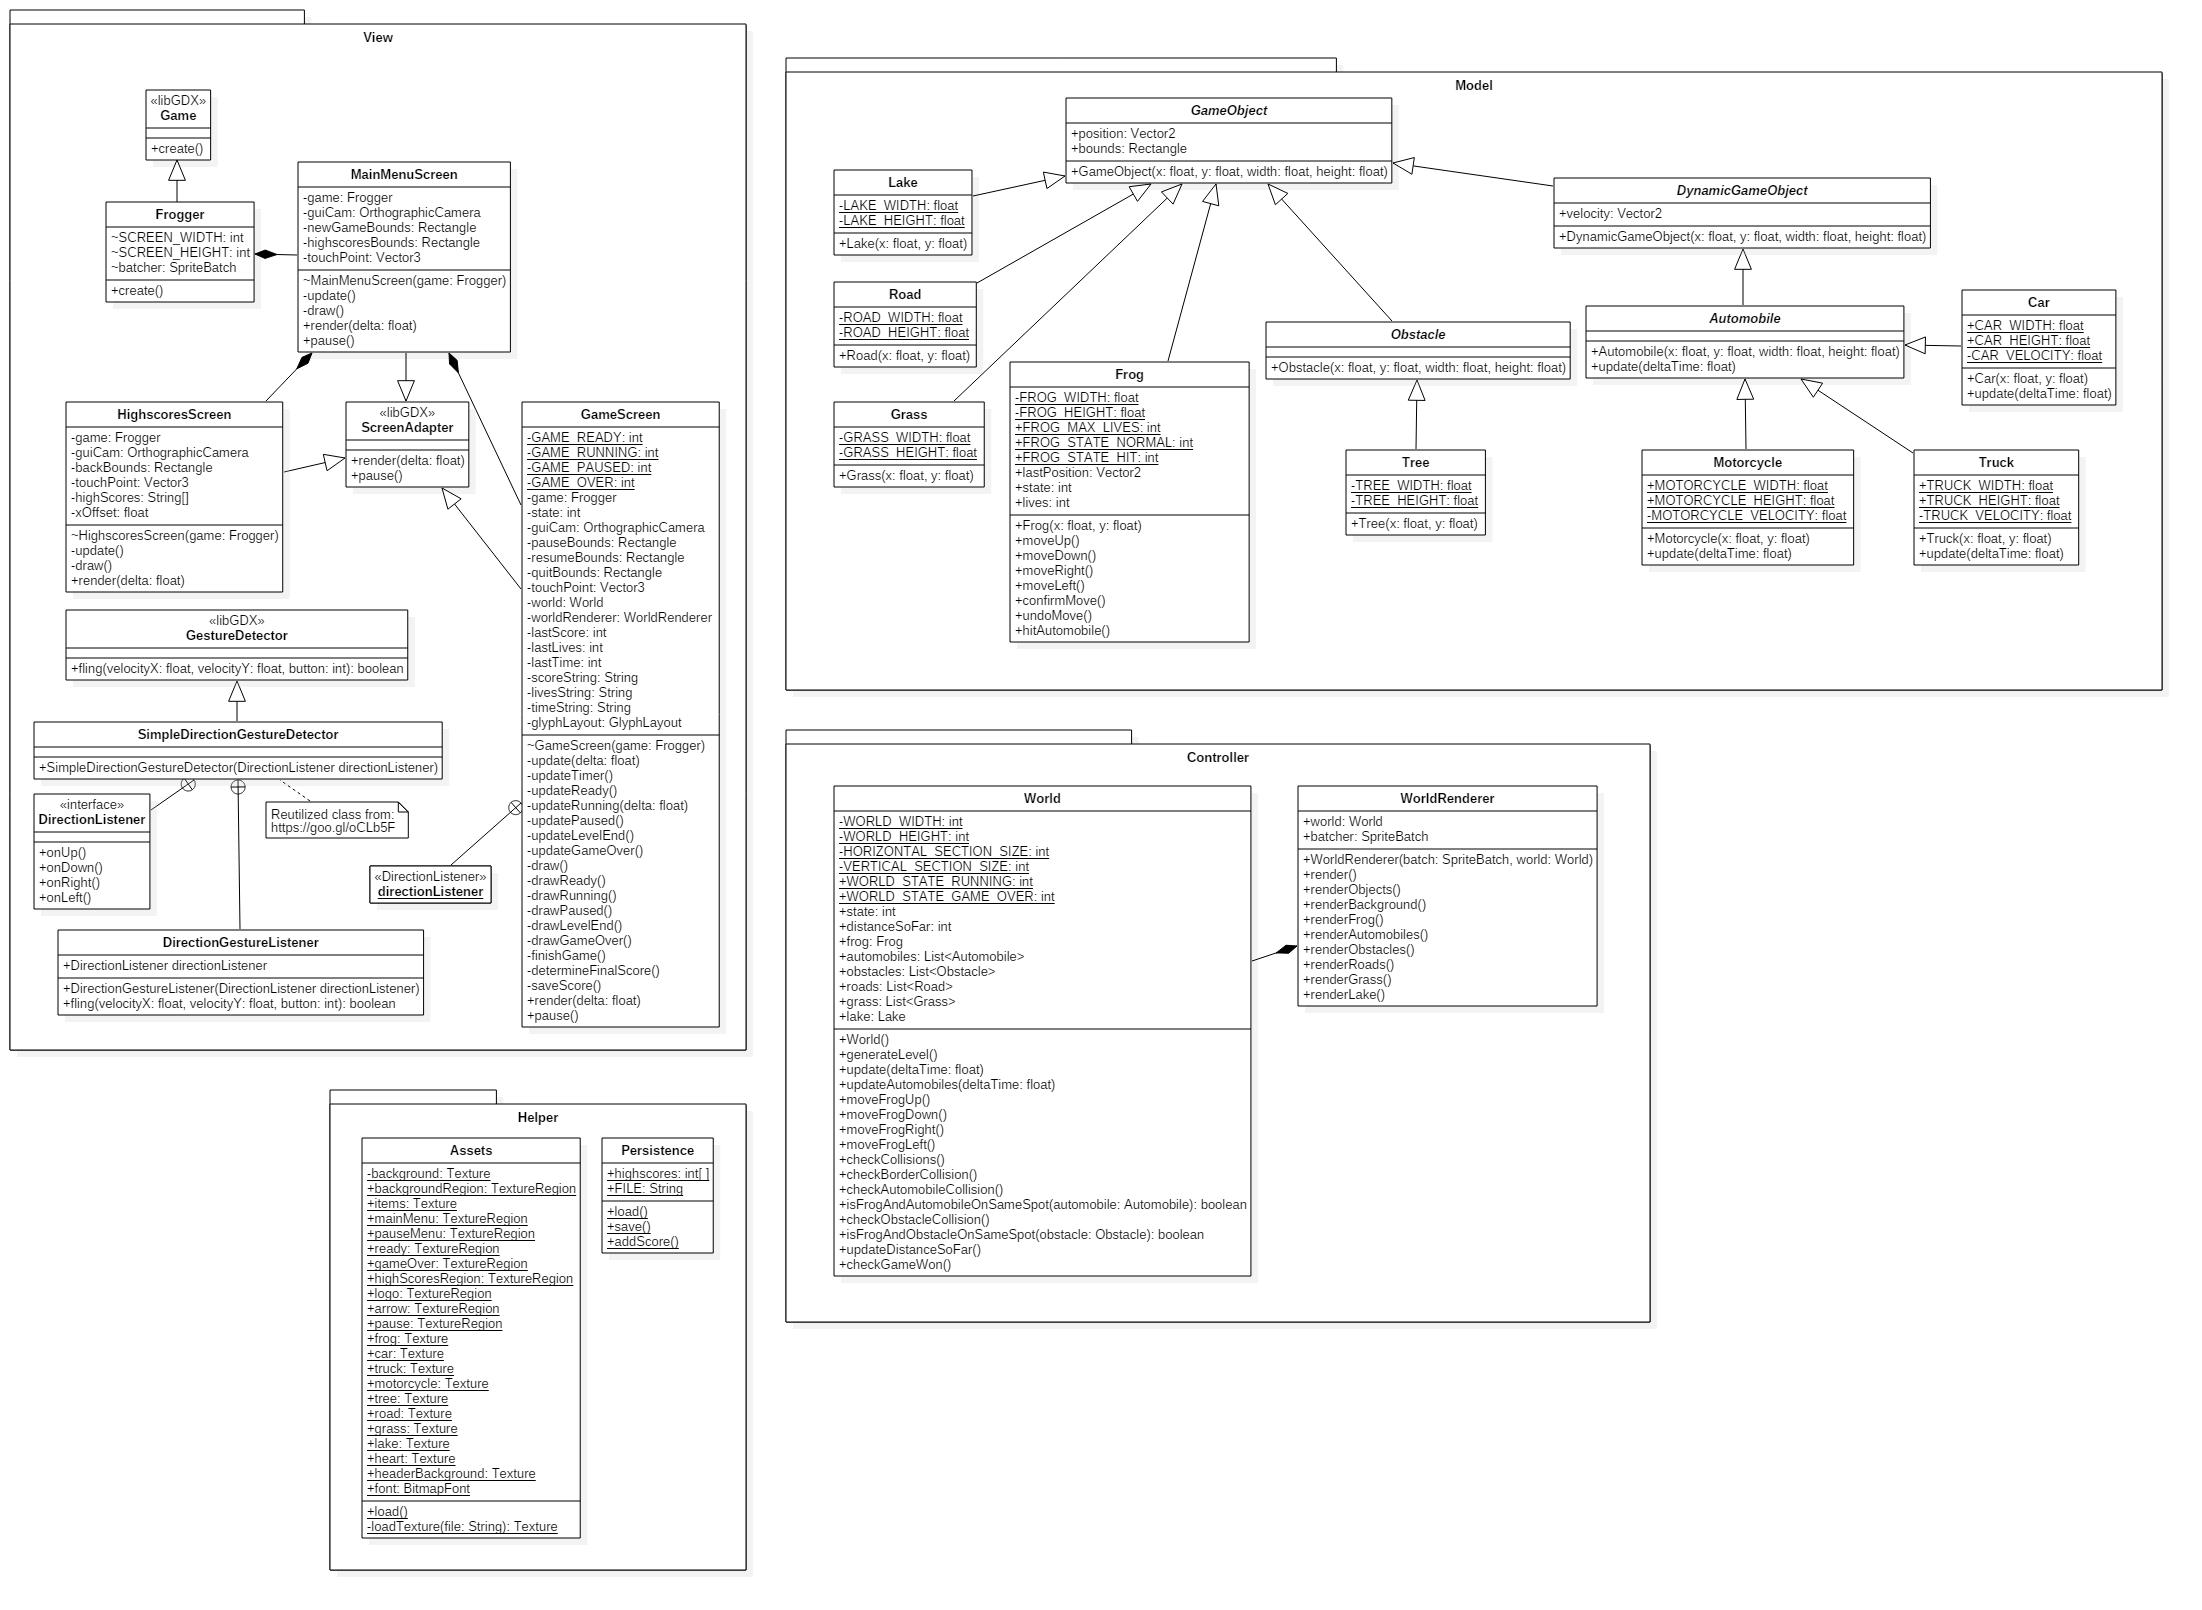
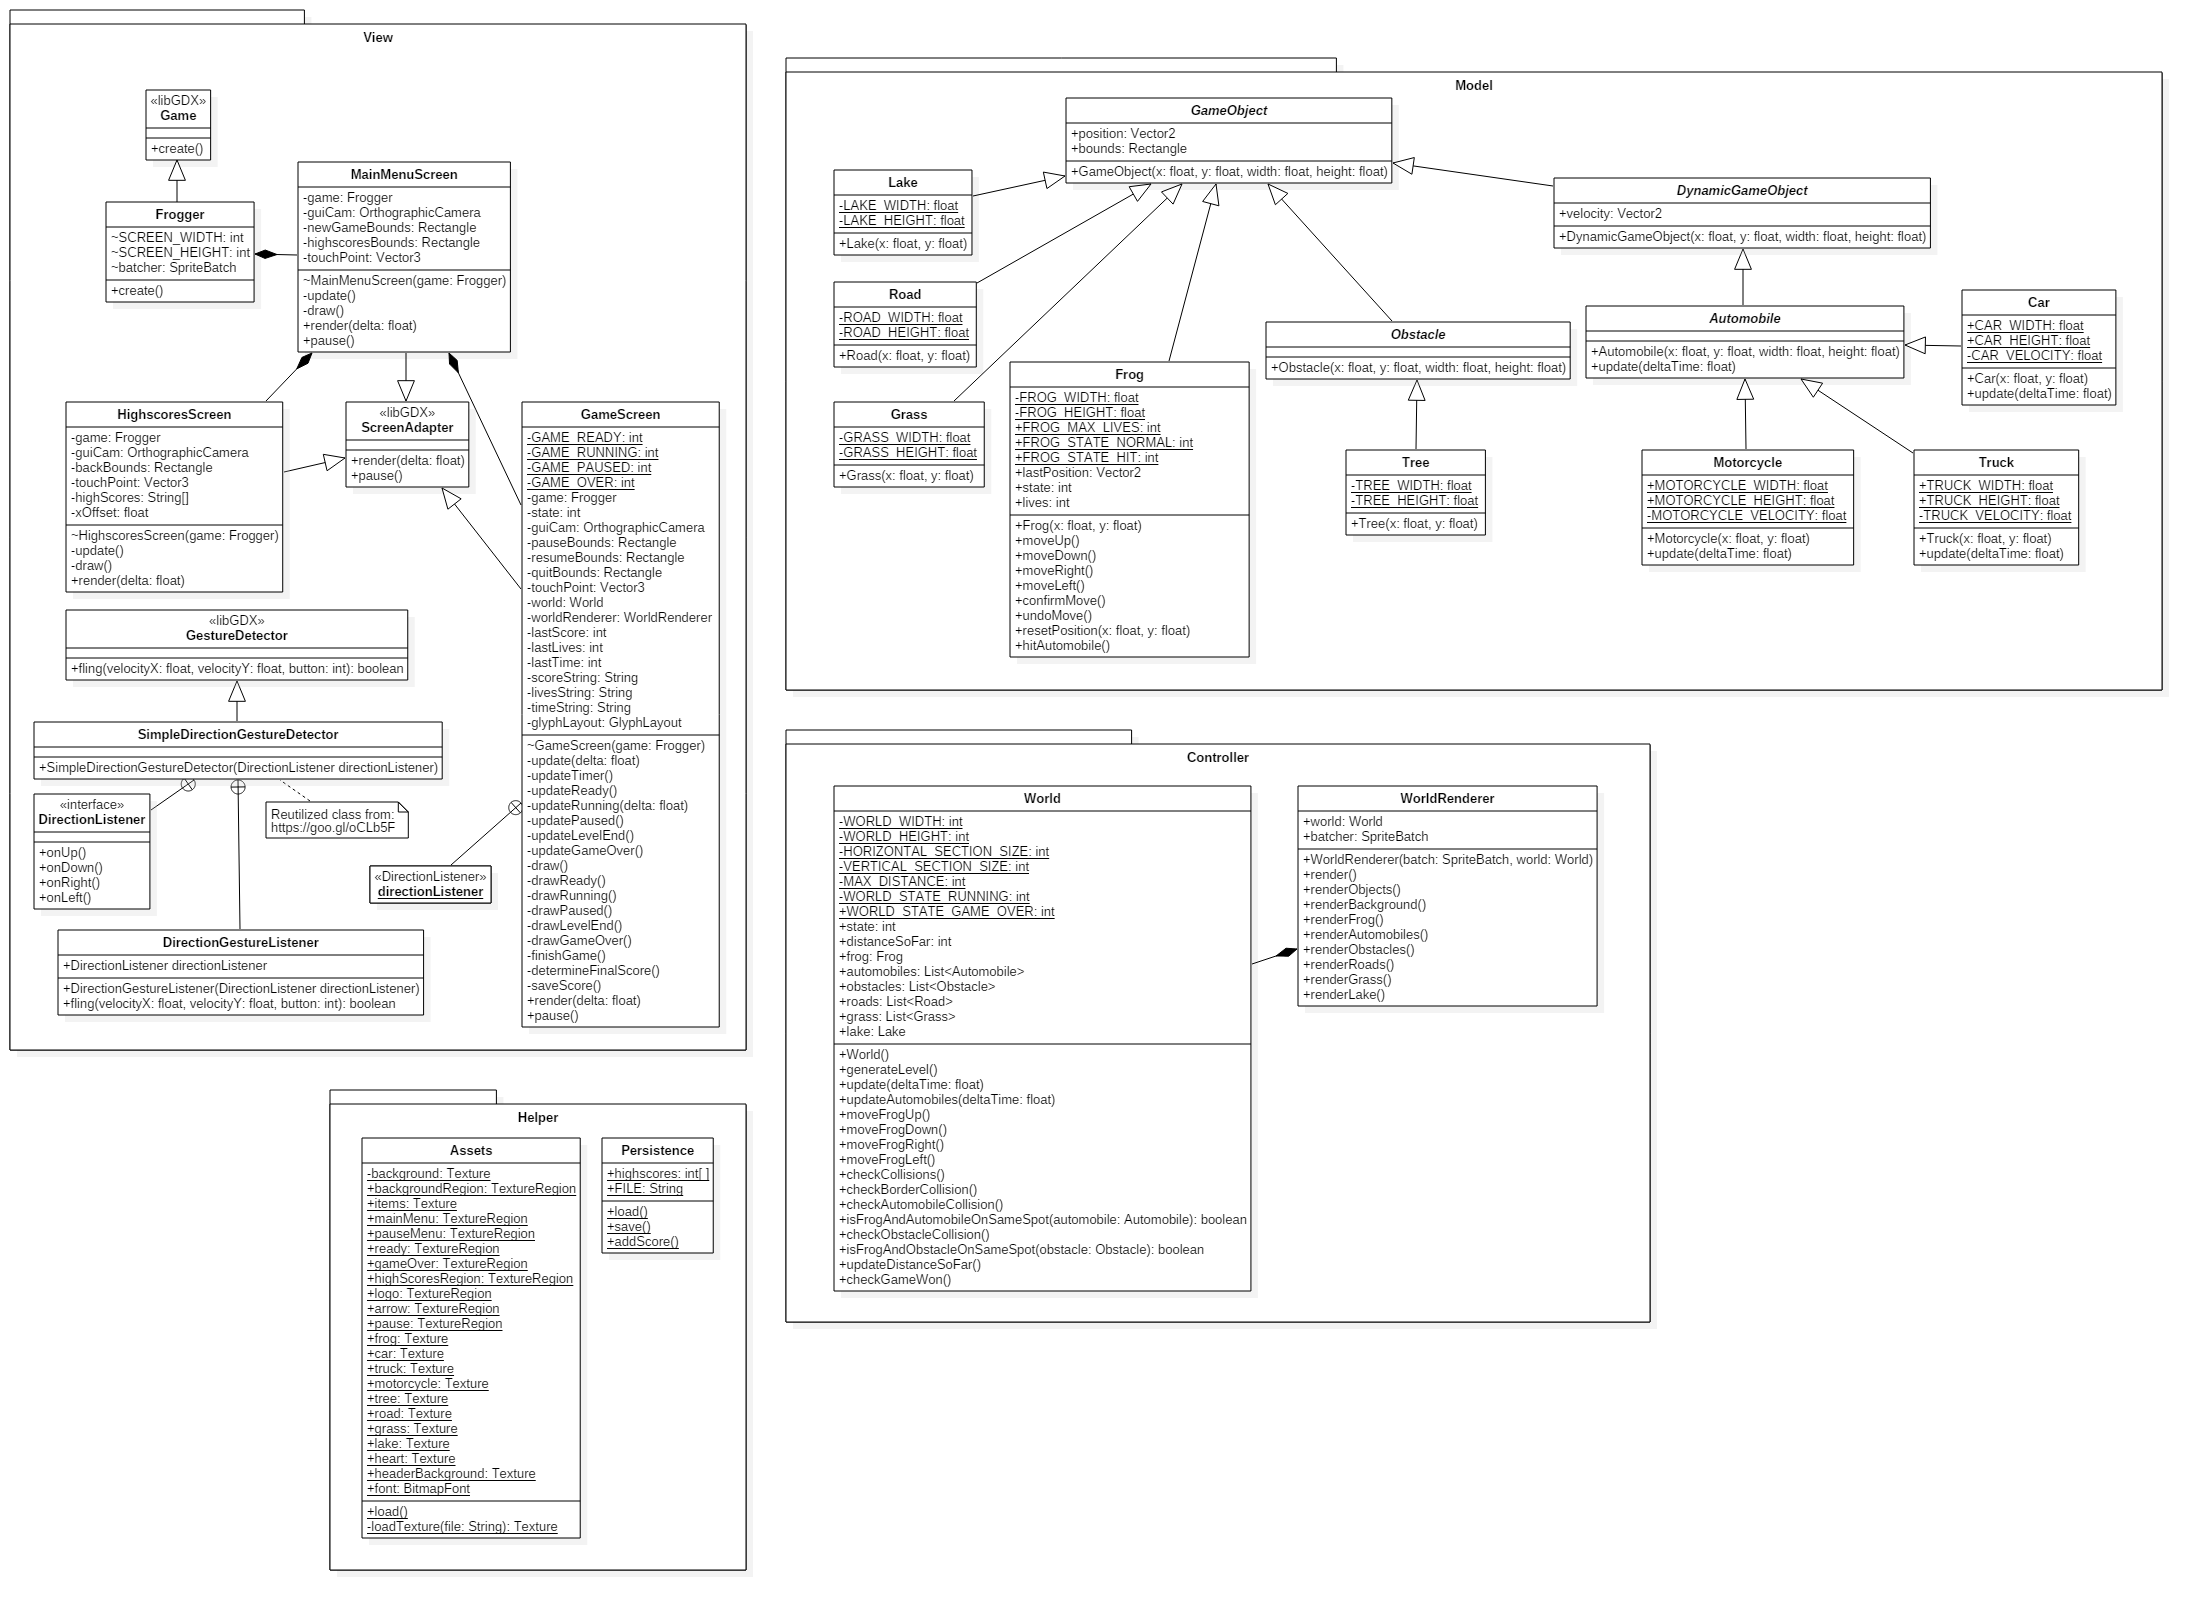
Adicionado método de reset da posição do sapo para quando se perde uma vida

Changed region(s): [[0.3706, 0.528, 0.5559, 0.8075], [0.4632, 0.3727, 0.525, 0.4037]]

diff --git a/core/src/com/tcp/trabalhopratico/model/Frog.java b/core/src/com/tcp/trabalhopratico/model/Frog.java
@@ -108,6 +108,18 @@ public class Frog extends GameObject {
     }
 
     /**
+     * Função que reseta a posição do sapo, usada para quando ele perde uma vida.
+     * @param x Nova posição no eixo x.
+     * @param y Nova posição no eixo y.
+     */
+    public void resetPosition(float x, float y) {
+        getPosition().x = x;
+        getPosition().y = y;
+        lastPosition.x = x;
+        lastPosition.y = y;
+    }
+
+    /**
      * Método que atualiza o estado do sapo em caso de colisão com um automóvel.
      */
     public void hitAutomobile() {

diff --git a/core/src/com/tcp/trabalhopratico/controller/World.java b/core/src/com/tcp/trabalhopratico/controller/World.java
@@ -213,10 +213,7 @@ public class World {
                 frog.setLives(frog.getLives() - 1);
 
                 if (frog.getLives() > 0) {
-                    frog.getPosition().x = HORIZONTAL_SECTION_SIZE * 2;
-                    frog.getPosition().y = 0;
-                    frog.getLastPosition().x = HORIZONTAL_SECTION_SIZE * 2;
-                    frog.getLastPosition().y = 0;
+                    frog.resetPosition(HORIZONTAL_SECTION_SIZE * 2, 0);
                     distanceSoFar = 0;
                 } else {
                     frog.hitAutomobile();
